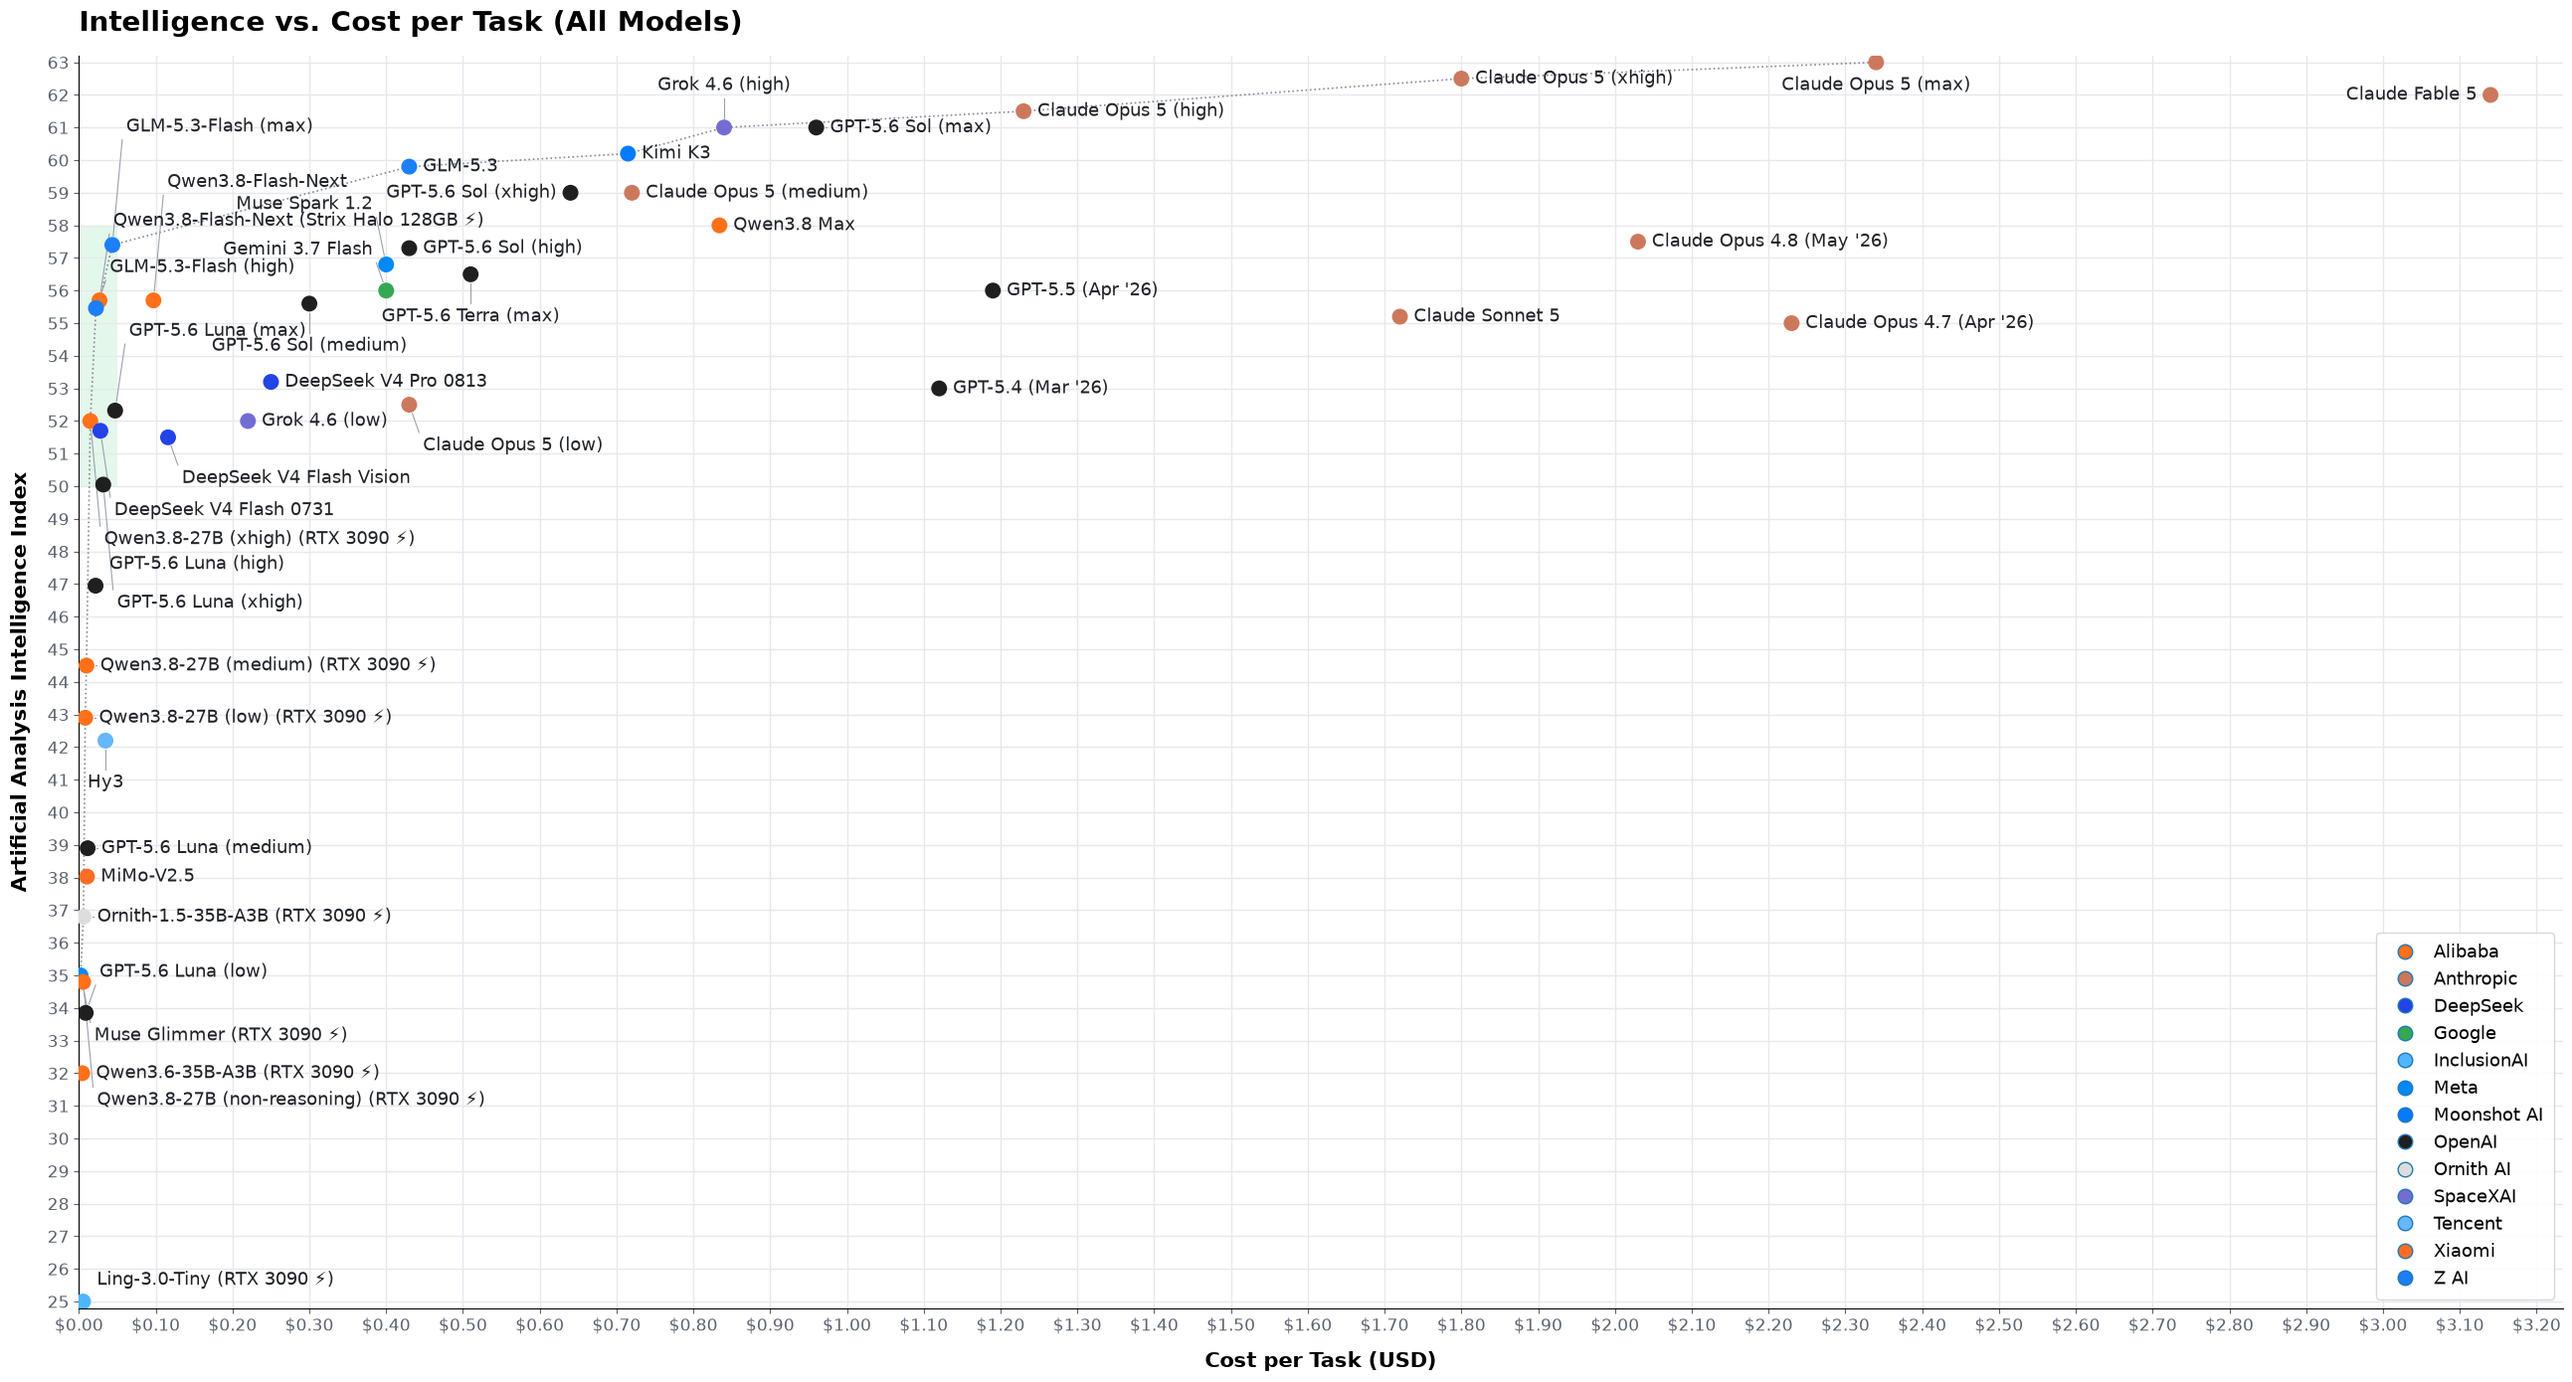
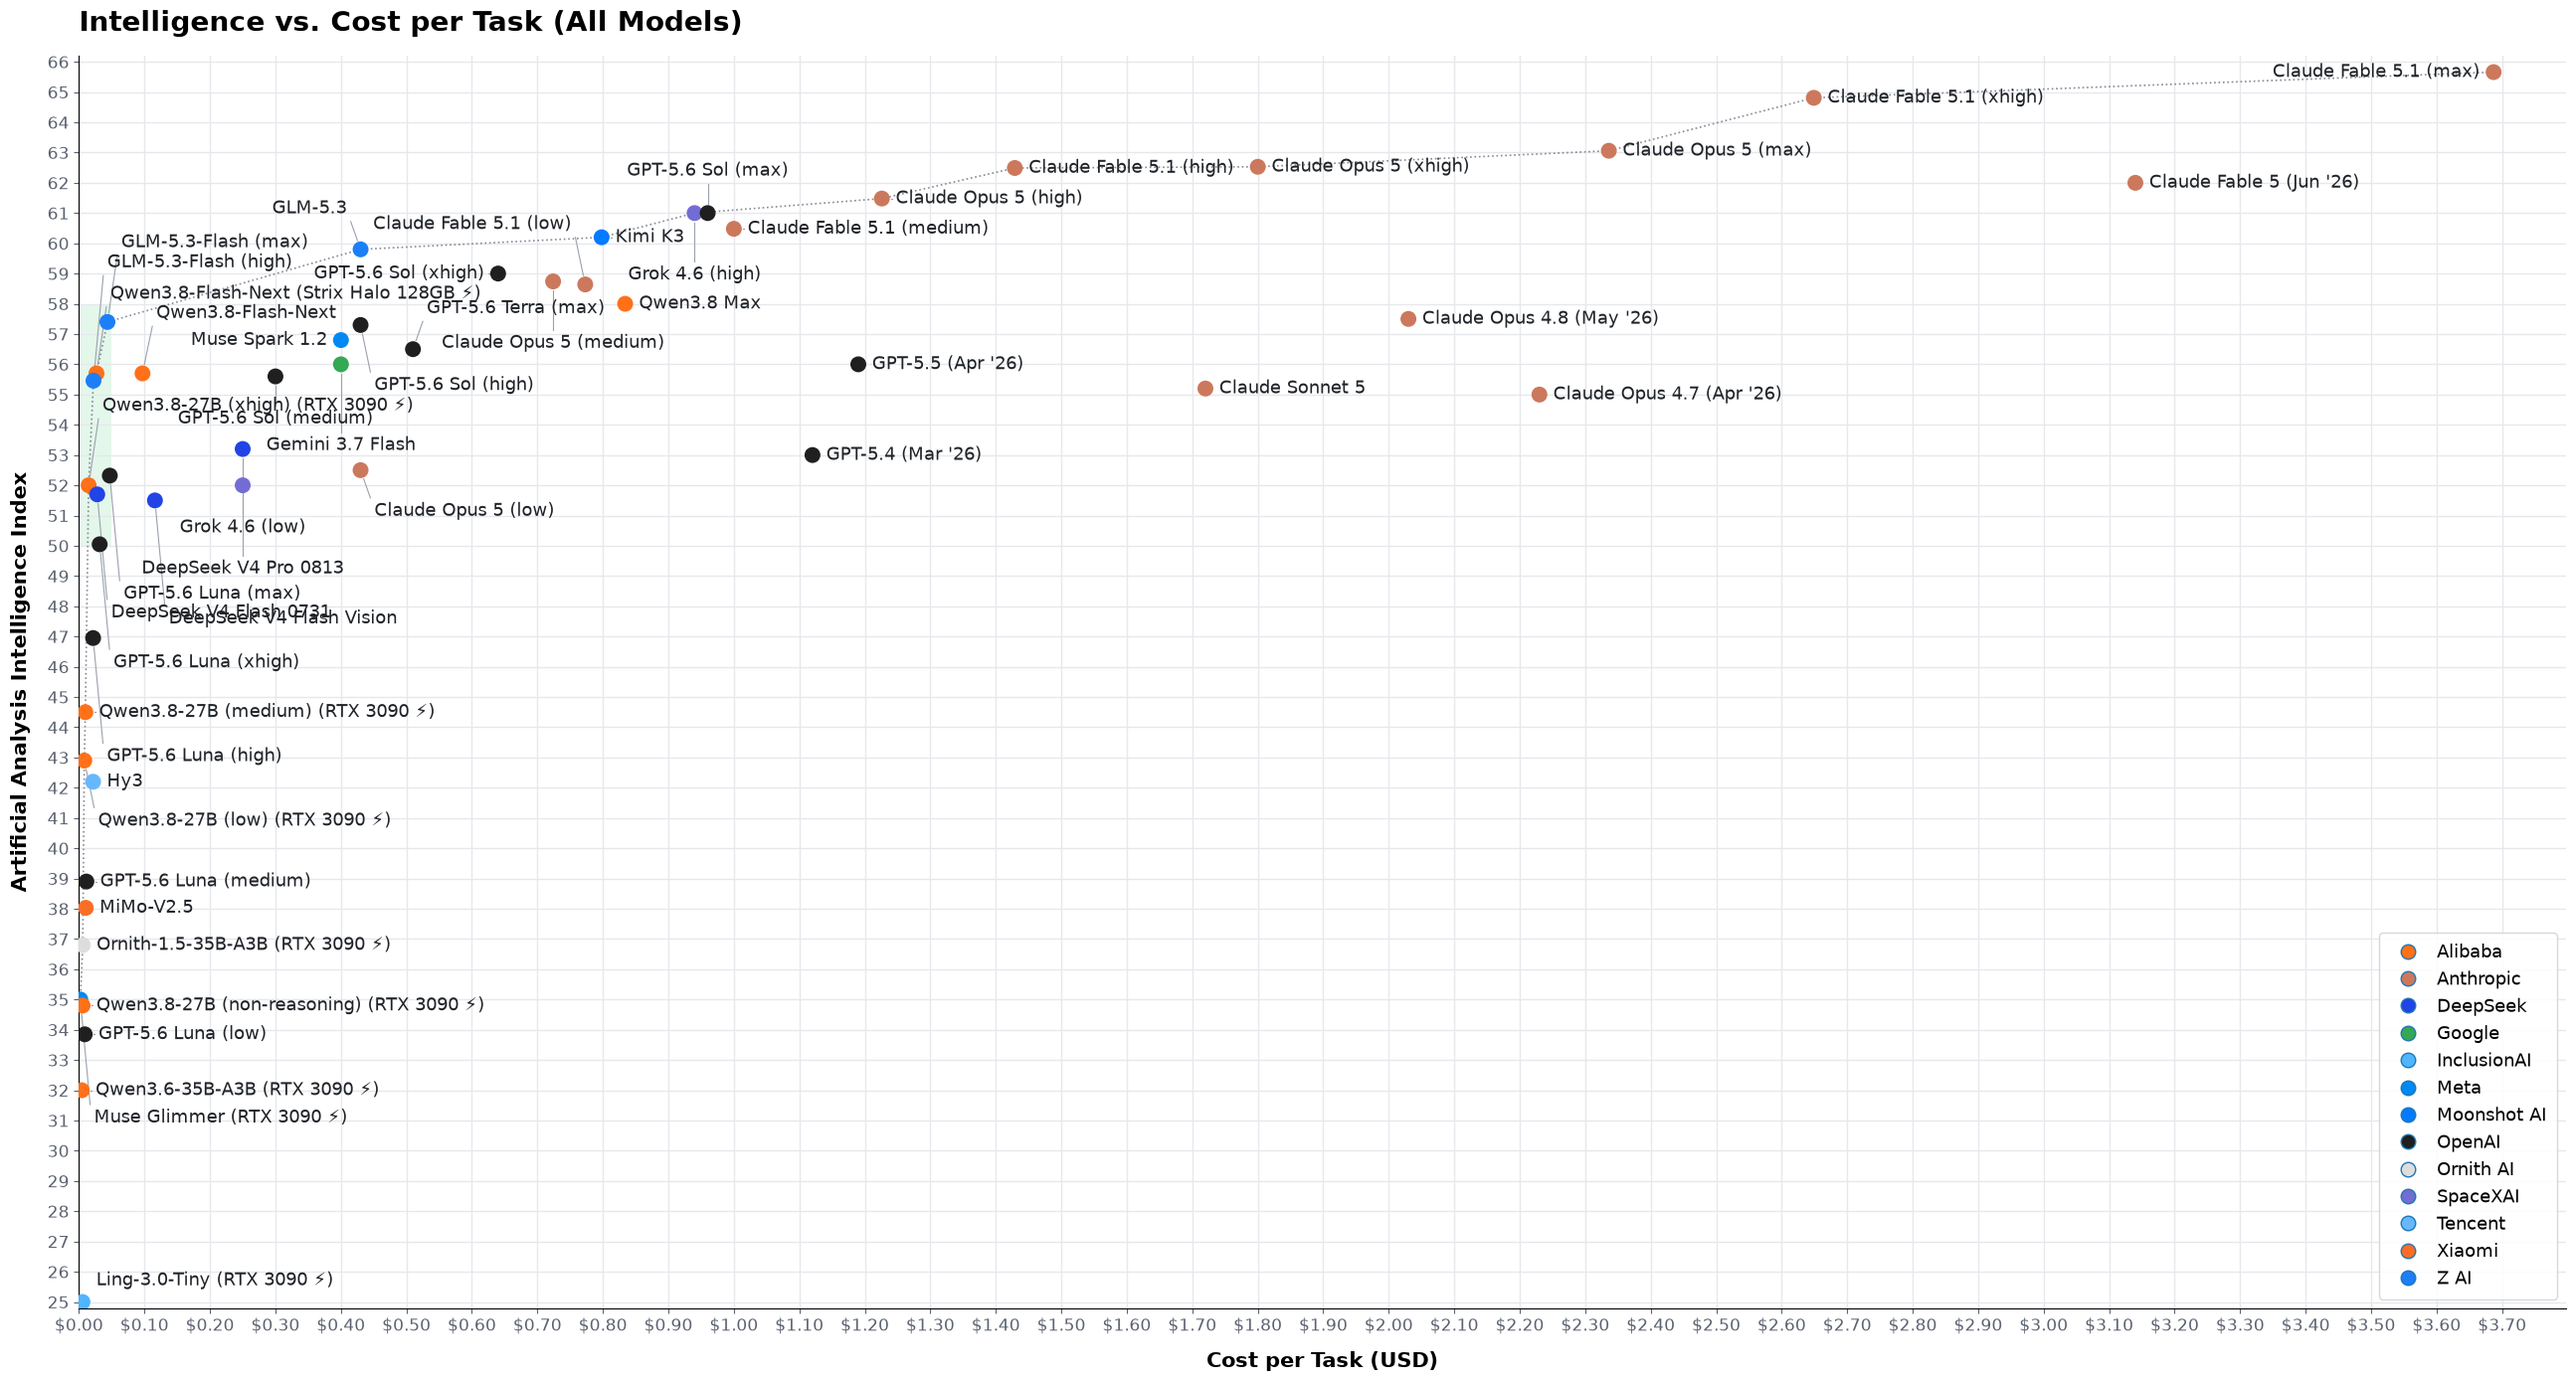
Add Fable 5.1; update other points

diff --git a/posts/intelligence-vs-cost.md b/posts/intelligence-vs-cost.md
@@ -19,7 +19,7 @@ Over time, I've become progressively more irritated by this plot, for a few reas
 
 ## Why AA's plot is misleading
 
-The first issue I have with it is that it uses a logarithmic scale on the cost axis. Using a log scale is the only way to make you spot the difference between a model that costs $0.05 per task and one that costs $0.09, while the same plot contains a model that costs $3 — 60 times as expensive. However, the net result is that the viewers can no longer appreciate the immensity of the price difference between the cheap models and the heavy ones; nor can they realize how inconsequential the price differences are between the cheap models.
+The first issue I have with it is that it uses a logarithmic scale on the cost axis. Using a log scale is the only way to make you spot the difference between a model that costs $0.015 per task and one that costs $0.032, while the same plot contains a model that costs $3.69 — almost 250 times as expensive. However, the net result is that the viewers can no longer appreciate the immensity of the price difference between the cheap models and the heavy ones; nor can they realize how inconsequential the price differences are between the cheap models.
 
 The second thing that irks me is that it uses the official pricing from the model developers' own API offering. This is fine in most cases, but for open-weights models it can be a lot more expensive than what the exact same model can be rented for from third-party API providers. [OpenRouter](https://openrouter.ai) makes it very easy to switch providers on the fly and always get the cheapest offer.
 
@@ -85,4 +85,4 @@ The following models _can_ be run locally, but carry a very steep up-front hardw
 
 There is an immense difference in cost between the state-of-the-art models from Anthropic and OpenAI and the much cheaper Chinese models: the former are [too expensive even for large corporations](https://www.tomshardware.com/tech-industry/artificial-intelligence/ai-cost-crisis-hits-tech-giants-as-employee-tokenmaxxing-backfires-agentic-ai-eats-up-to-1000x-more-tokens-than-standard-ai-sparks-corporate-pullback-at-microsoft-meta-and-amazon), while the latter can be as cheap as a mobile phone subscription.
 
-How much extra intelligence emptying the wallet purchases obeys the law of diminishing returns: while a top-tier engineer or scientist _may_ be able to appreciate how much better Opus 5 (intelligence score 63, $2.34 per task) is compared to GLM-5.3 (intelligence 60, $0.49), most people will have a hard time doing so. Going further down, GLM-5.3-Flash at high settings (intelligence 55, $0.023 — _one hundred times_ cheaper than Opus) is visibly less capable when you give it very sophisticated tasks, like one-shotting a whole coding project on its own, but it remains _enough_ for 90% of what people actually need. Even the highly specialized engineers and scientists mentioned above don't actually need the extra intelligence for a lot of what they do. Descending just a little bit further, an enthusiast gamer can run Qwen3.8-27B (intelligence 52, $0.015 in electricity) on a computer they already own.
+How much extra intelligence emptying the wallet purchases obeys the law of diminishing returns: while a top-tier engineer or scientist is probably going to be able to appreciate how much better Fable 5.1 (intelligence score 66, $3.69 per task) is compared to GLM-5.3 (intelligence 60, $0.49 — 7.5x cheaper), most people will have a hard time doing so. Going further down, GLM-5.3-Flash at high settings (intelligence 55, $0.023 — _one hundred and sixty times_ cheaper than Fable) is visibly less capable when you give it very sophisticated tasks, like one-shotting a whole coding project on its own, but it remains _enough_ for 90% of what people actually need. Even the highly specialized engineers and scientists mentioned above don't actually need the extra intelligence for a lot of what they do. Descending just a little bit further, an enthusiast gamer can run Qwen3.8-27B (intelligence 52, $0.015 in electricity) on a computer they already own.
